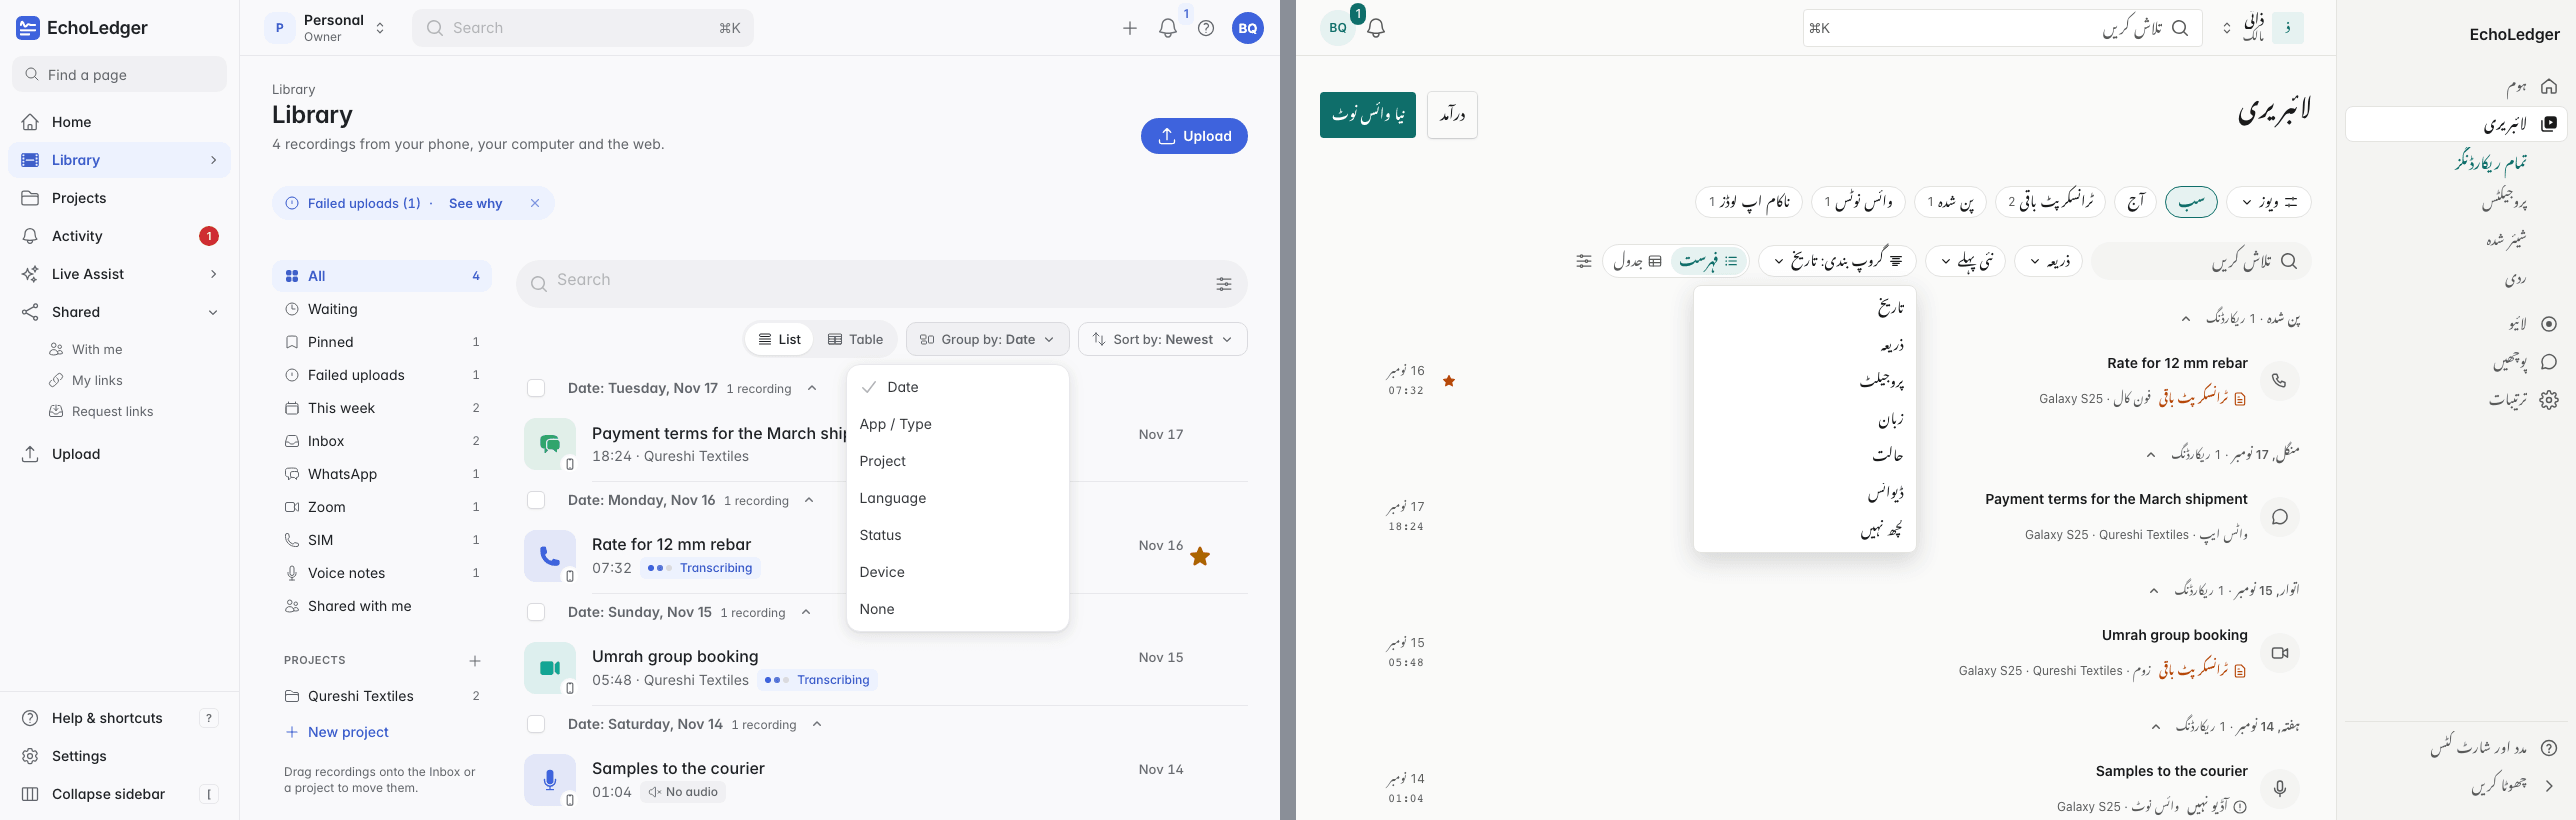
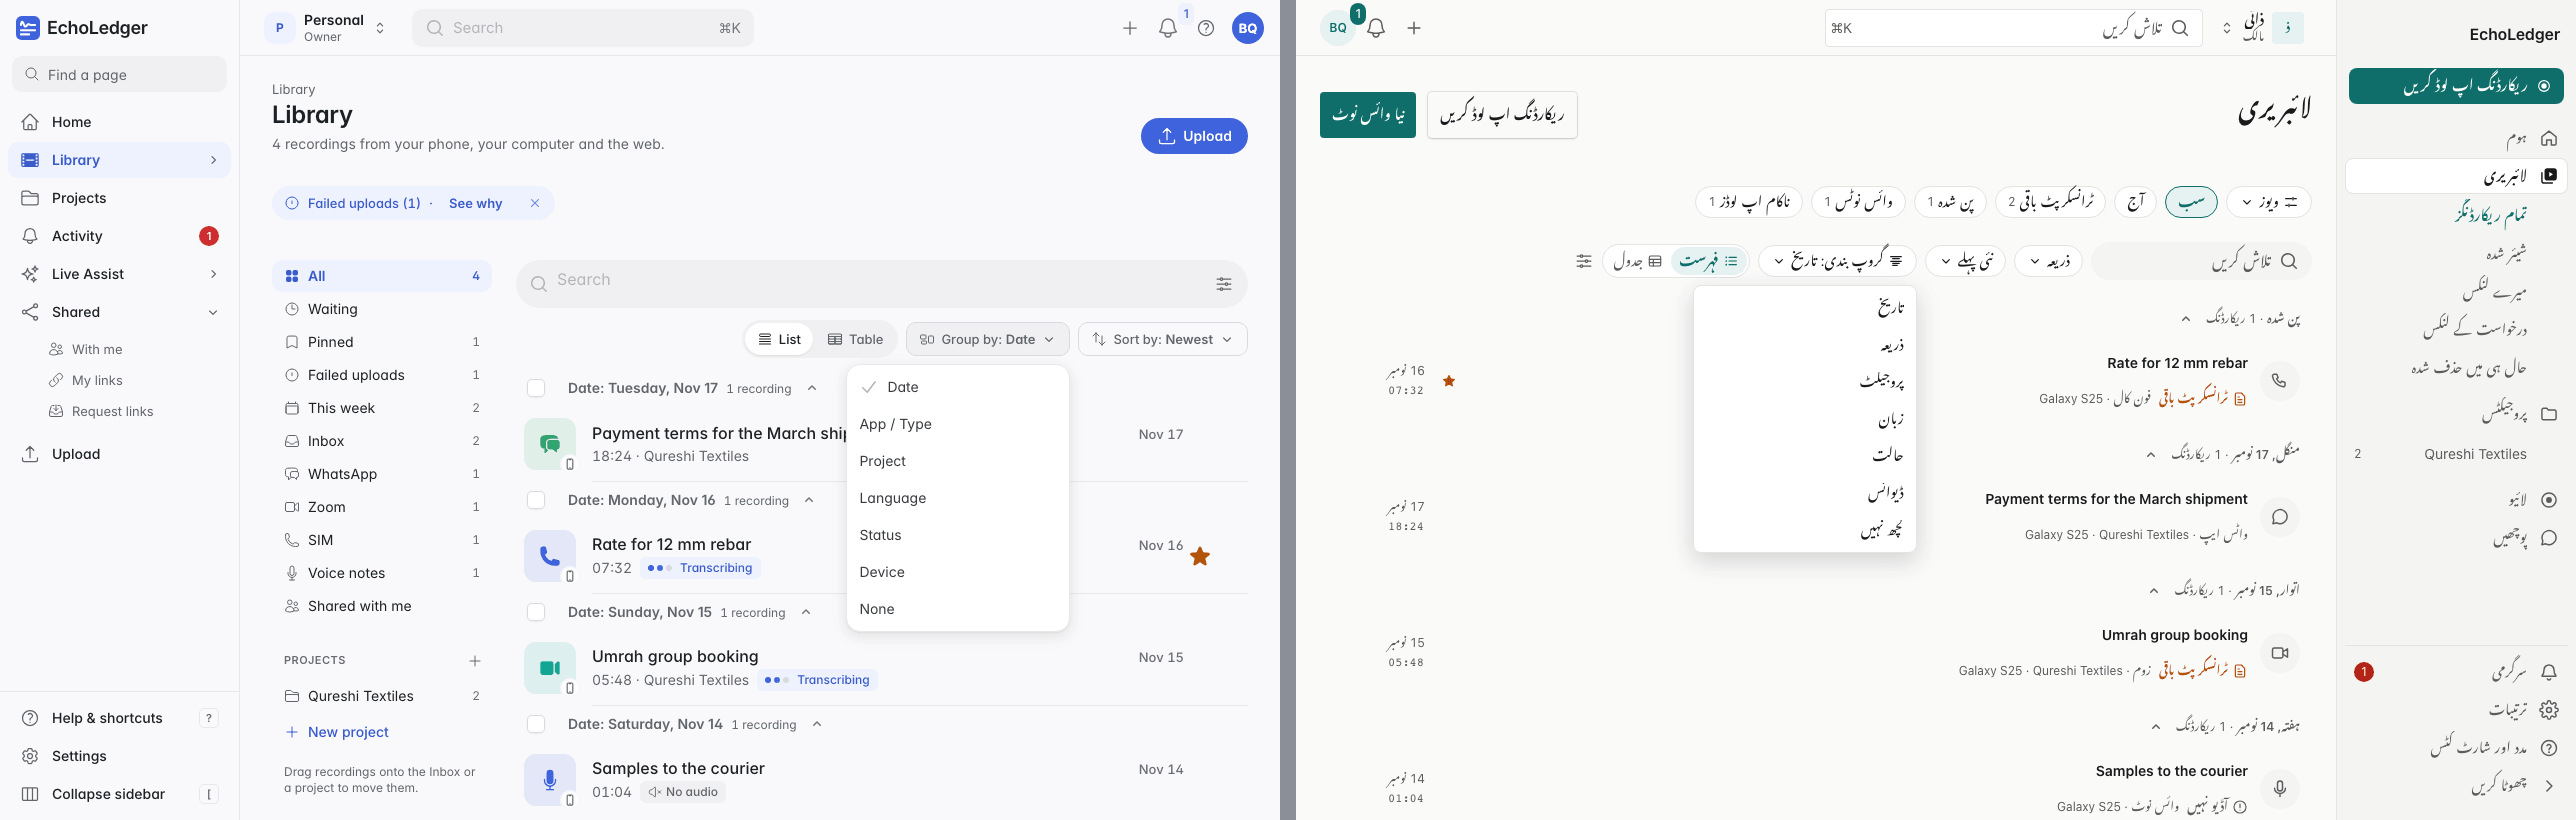
Library review: retaken pictures, 768 and 1000 px shots, Urdu table columns, layout check
- nav-phone-dark-ur and library-group-light-ur retaken: the Urdu row status stays on one line and the second line ends in an ellipsis; the group picture shows the new sidebar.
- Library screens at 768 and 1000 px, light and dark, English and Urdu, in docs/v2/design-review/U7.
- The Library table's App and Device columns read in the console's language under the new Library; classic is unchanged.
- An Undo that brings nothing back is checked to be a warning, and one that brings a recording back a success.
- Recently deleted and Upload recording used consistently in comments, test names and the WEB parity rows.
- layout-check.md: every console page at 720, 1024, 1280 and 1728 px (and 390 px for the Library row), with the issues found and who owns each.

diff --git a/web/tests/Feature/V2/LibrarySelectionTest.php b/web/tests/Feature/V2/LibrarySelectionTest.php
@@ -18,8 +18,8 @@ use Tests\Feature\Security\Support\SecurityFixtures as Fx;
 
 /*
  * The v2.0 Library's selection mode (docs/PLAN_V2_PARITY.md section 3): × to leave, the count, Select all, four main
- * actions (Move to project, Label, Export, Delete) and ⋮ with Organise, Export and Danger; Delete goes to Trash at once
- * with Undo. Classic keeps its own bar (ClassicGoldenTest).
+ * actions (Move to project, Label, Export, Delete) and ⋮ with Organise, Export and Danger; Delete goes to Recently deleted
+ * at once with Undo. Classic keeps its own bar (ClassicGoldenTest).
  */
 
 beforeEach(function () {
@@ -58,7 +58,7 @@ function selectionNotices(): string
     return (string) json_encode($notices->notifications->toArray(), JSON_UNESCAPED_UNICODE);
 }
 
-it('moves the selected recordings to Trash at once, offers Undo, and brings them back', function () {
+it('moves the selected recordings to Recently deleted at once, offers Undo, and brings them back', function () {
     $ids = $this->recordings->take(2)->pluck('id')->all();
 
     Livewire::test(ListCaptureSessions::class)->callTableBulkAction('trash', $ids)->assertHasNoTableBulkActionErrors();
@@ -86,7 +86,8 @@ it('brings back only that batch, only the person\'s own, and only what they may 
     $earlier->delete();
     Cache::put(CaptureSessionsTable::undoKey('batch'), [(string) $mine->id, (string) $other->id], now()->addMinutes(5));
 
-    Livewire::test(ListCaptureSessions::class)->dispatch('el-library-undo-delete', token: 'batch')->assertNotified('1 recording is back');
+    Livewire::test(ListCaptureSessions::class)->dispatch('el-library-undo-delete', token: 'batch');
+    expect(selectionNotices())->toContain('1 recording is back')->toContain('"status":"success"');
     expect(CaptureSession::query()->find($mine->id))->not->toBeNull()
         ->and(CaptureSession::query()->find($earlier->id))->toBeNull()
         ->and(CaptureSession::withoutGlobalScopes()->onlyTrashed()->find($other->id))->not->toBeNull();
@@ -97,7 +98,10 @@ it('brings back only that batch, only the person\'s own, and only what they may 
     // A person the policy does not let restore gets nothing back.
     Gate::before(fn ($user, string $ability) => $ability === 'restore' ? false : null);
     Cache::put(CaptureSessionsTable::undoKey('denied'), [(string) $earlier->id], now()->addMinutes(5));
-    Livewire::test(ListCaptureSessions::class)->dispatch('el-library-undo-delete', token: 'denied')->assertNotified('0 recordings are back');
+    Livewire::test(ListCaptureSessions::class)->dispatch('el-library-undo-delete', token: 'denied');
+    // Nothing came back: the notice is a warning, not a success.
+    $notices = selectionNotices();
+    expect($notices)->toContain('0 recordings are back')->toContain('"status":"warning"')->not->toContain('"status":"success"');
 });
 
 it('leaves a recording that is still recording or uploading where it is, and says so', function () {

diff --git a/web/tests/Feature/V2/LibraryParityTest.php b/web/tests/Feature/V2/LibraryParityTest.php
@@ -141,6 +141,34 @@ it('offers Retry and Delete on a failed recording\'s row in Failed uploads, and 
     expect(CaptureSession::query()->find($other->id))->toBeNull();
 });
 
+it('reads the group titles, the table\'s apps and the Failed uploads row\'s Retry and Delete in Urdu when the console is in Urdu', function () {
+    $prefs = $this->owner->console_preferences ?? [];
+    $prefs['shell'] = ['app_language' => 'ur'];
+    $this->owner->forceFill(['console_preferences' => $prefs])->save();
+    $this->actingAs($this->owner->fresh(), 'web');
+    app()->setLocale('ur');
+    $heads = function (string $html): array {
+        preg_match_all('~<[^>]*class="[^"]*fi-ta-group-heading[^"]*"[^>]*>(.*?)</~s', $html, $m);
+
+        return array_map(fn (string $t): string => trim(html_entity_decode(strip_tags($t))), $m[1]);
+    };
+
+    $page = Livewire::test(ListCaptureSessions::class);
+    expect(implode(' | ', $heads($page->call('setLibraryGroup', 'app')->html())))->toContain('واٹس ایپ')->toContain('فون کال')->not->toContain('WhatsApp');
+    expect(implode(' | ', $heads($page->call('setLibraryGroup', 'project')->html())))->toContain('ان باکس')->not->toContain('Inbox');
+    expect(implode(' | ', $heads($page->call('setLibraryGroup', 'status')->html())))->toContain('ناکام')->not->toContain('Failed');
+
+    // The table's App column too.
+    $page->call('setLibraryGroup', 'none')->call('setLibraryLayout', 'table')
+        ->assertTableColumnFormattedStateSet('source_app', 'واٹس ایپ', $this->call)
+        ->assertTableColumnFormattedStateSet('source_app', 'فون کال', $this->pinned)
+        ->assertTableColumnFormattedStateNotSet('source_app', 'Phone call', $this->pinned);
+
+    $failed = Livewire::test(ListCaptureSessions::class)->call('openPlace', 'failed');
+    $failed->assertTableActionHasLabel('retryFailed', 'دوبارہ کوشش کریں', $this->failed)
+        ->assertTableActionHasLabel('deleteFailed', 'حذف کریں', $this->failed);
+});
+
 it('says how many calls wait for a decision, with Review, in one quiet line', function () {
     $page = Livewire::test(ListCaptureSessions::class);
     expect($page->html())->toContain('1 call waiting for a decision')->toContain('data-waiting="1"');

diff --git a/web/app/Filament/Resources/CaptureSessions/Tables/CaptureSessionsTable.php b/web/app/Filament/Resources/CaptureSessions/Tables/CaptureSessionsTable.php
@@ -213,9 +213,11 @@ final class CaptureSessionsTable
                 ->state(fn (CaptureSession $r): string => $r->displayTitle())
                 ->extraAttributes(fn (CaptureSession $r): array => ['data-recording' => $r->id, 'draggable' => ConsoleAccess::readOnly() ? 'false' : 'true', 'class' => 'el-table-title'])
                 ->searchable(query: fn (Builder $query, string $search): Builder => self::searchTitleOrClient($query, $search)),
-            TextColumn::make('source_app')->label(__('App'))->toggleable(),
+            // The app's and the device's names in the console's language under the new Library (English as before).
+            TextColumn::make('source_app')->label(__('App'))->toggleable()
+                ->formatStateUsing(fn (?SourceApp $state): string => ConsoleV2::library() ? __((string) $state?->getLabel()) : (string) $state?->getLabel()),
             TextColumn::make('client.name')->label(__('Project'))->placeholder(__('Inbox'))->toggleable(),
-            TextColumn::make('device.name')->label(__('Device'))->state(fn (CaptureSession $r): string => self::deviceLabel($r))->toggleable(isToggledHiddenByDefault: true),
+            TextColumn::make('device.name')->label(__('Device'))->state(fn (CaptureSession $r): string => ConsoleV2::library() ? __(self::deviceLabel($r)) : self::deviceLabel($r))->toggleable(isToggledHiddenByDefault: true),
             TextColumn::make('duration_ms')->label(__('Length'))->formatStateUsing(fn (?int $state): string => self::duration($state))->toggleable(),
             TextColumn::make('started_at')->label(__('Date'))->toggleable()
                 // Since v2.0 in the console's language (English reads exactly as before).

diff --git a/web/resources/views/filament/v2/sidebar.blade.php b/web/resources/views/filament/v2/sidebar.blade.php
@@ -1,6 +1,6 @@
 {{--
     The v2.0 sidebar (docs/PLAN_V2_PARITY.md section 2, docs/v2/IA.md): the brand, "Upload recording" at the top (the
-    web's Record), then Home, Library (All recordings, Shared, My links, Request links, Trash), Projects (the first few
+    web's Record), then Home, Library (All recordings, Shared, My links, Request links, Recently deleted), Projects (the first few
     with their counts), Live and Ask; at the foot Activity with what needs you, Settings, Help and Collapse. Its edge
     resizes it (drag, or the arrow keys), and its look is the person's Sidebar style (Light, Dark, Soft grey). It keeps
     Filament's sidebar contract (filamentSidebar, $store.sidebar), so on phones it is the drawer the menu button opens;

diff --git a/web/resources/views/filament/v2/topbar.blade.php b/web/resources/views/filament/v2/topbar.blade.php
@@ -1,6 +1,6 @@
 {{--
     The v2.0 top bar, beside the sidebar: the menu button on phones and tablets, the workspace, search and commands
-    (Ctrl/⌘+K), then + (Upload files, New project, Request link), the bell (only what needs you) and the avatar menu (Settings lives there on phones, as in the apps).
+    (Ctrl/⌘+K), then + (Upload recording, New project, Request link), the bell (only what needs you) and the avatar menu (Settings lives there on phones, as in the apps).
 --}}
 @php
     use Filament\Livewire\GlobalSearch;

diff --git a/web/app/Filament/Resources/CaptureSessions/Pages/ListCaptureSessions.php b/web/app/Filament/Resources/CaptureSessions/Pages/ListCaptureSessions.php
@@ -402,7 +402,7 @@ class ListCaptureSessions extends ListRecords
 
     /**
      * Undo of the v2.0 selection's Delete: the batch that Delete just moved (its token, this person's only) comes back
-     * from Trash while Trash still keeps it, each recording only when the person may restore it.
+     * from Recently deleted while it still keeps it, each recording only when the person may restore it.
      */
     public function undoDelete(string $token = ''): void
     {

diff --git a/docs/v2/design-review/U7/layout-check.md b/docs/v2/design-review/U7/layout-check.md
@@ -1,0 +1,53 @@
+# U7 layout check: console pages at 720, 1024, 1280 and 1728 px
+
+What was checked: every console page of the parity world (`web/tests/Feature/V2/Support/parity_world.php`, 38 pages:
+Home, Library, a recording, Projects and each project tab, Search, Upload, Activity, Live, Shares, Shared with me,
+Request links, Recently deleted, Devices, Usage, Workspace, Help, Get the apps, Live Assist preps, sessions and settings,
+Settings and each settings page) at 720, 1024, 1280 and 1728 px, plus 390 px for the known phone issue:
+
+- classic: light and dark, English (classic has no Urdu);
+- v2: light and dark, English and Urdu.
+
+1,140 page loads in all, on a local server with the parity world in a scratch SQLite file. Each page was checked for
+sideways page scroll, boxes that scroll sideways, text cut by its box without an ellipsis, text cut off the screen and
+text drawn over text. The pages it flagged were then looked at by eye, as were Home, a recording, Search, Upload, Live,
+Settings, Appearance, Projects, a project, Activity and Usage in Urdu at 720 and 1280 px.
+
+The page never scrolls sideways, at any width, in either design. Nothing at 1728 px. Light and dark give the same
+results everywhere. The screenshots are in `layout/`. Red outlines mark what was flagged.
+
+## v2 issues
+
+| # | Page | Width | What is wrong | Screenshot | Owner |
+|---|------|-------|---------------|------------|-------|
+| 1 | Library (List) | 390 (phone), EN and UR | The row's time and length are pushed off the right edge, and the list scrolls sideways (it shows 358 px and needs 463). The grid that holds the records (`.fi-ta-content`) sizes its one column to the row's widest content: the title and the second line do not wrap, so they set that width. The row's own rules (`min-width: 0`, the meta's ellipsis) do not help, because the grid track is already too wide. A rule that fixes it, checked in the browser: `.v2-library .fi-ta-content { grid-template-columns: minmax(0, 1fr); }`. With it the time and length show and the title and meta end in "…". | `layout/v2-library-390-light-en.png`, `layout/v2-library-390-dark-ur.png`, with the rule: `layout/v2-library-390-light-en-with-proposed-rule.png` | EL-Design (`web/resources/css/v2/console.css`, outside this task's lock) |
+| 2 | Settings › Appearance | 390 | The Language hint ("The console's words and direction. Transcripts keep their own…") is cut at the right edge with no ellipsis. The settings box is 358 px and the line needs 409. | `layout/v2-settings-appearance-390-light-en.png` | EL-Design (settings box styles) |
+| 3 | Recording | 390 | The tabs (Transcript, Summary, Ask, Moments, Details) need 7 px more than they get, so "Details" is cut at the edge. They scroll, but nothing shows that more is there. The meta line also wraps with its "·" left at the end of the first line. | `layout/v2-recording-390-light-en.png` | EL-Design (tabs) |
+| 4 | Recording › Share links table | 720, 1024, 1280, EN and UR | The table needs 1,121 px. At 1280 it shows 990, so the row's Access action is cut at the right edge. Its dates are also in classic's English format ("Nov 17, 2026 · 11:42 AM") under the v2 frame. | `layout/v2-recording-share-links-1280-light-en.png` | EL-Fix (shared relation manager table) |
+| 5 | My links (Shares) | 720, 1024, 1280, EN and UR | The table needs 1,194 px, so it scrolls sideways even at 1280. | `layout/v2-shares-1280-dark-en.png` | EL-Fix (shared page table) |
+| 6 | Devices | 720, 1024, 1280, EN and UR | The table needs 1,038 px, so at 1280 the row actions (Rename and the rest) are cut at the right edge. | `layout/v2-devices-1280-light-en.png` | EL-Fix (shared page table) |
+| 7 | Request links | 720, 1024, EN and UR | The table needs 931 px and scrolls sideways at 1024. | `layout/v2-request-links-1024-light-ur.png` | EL-Fix (shared page table) |
+| 8 | Project › Recordings (and every project tab) | 390, UR | The project pages are still classic's, in English, under the Urdu frame. Their row titles are not isolated, so in right-to-left an English title is cut at its start ("…ms for the March shipment") instead of its end. The Sort select's arrow sits over "Newest first". The tab bar scrolls sideways at 390 (it needs 528 px). | `layout/v2-project-recordings-390-light-ur.png` | EL-Fix (project pages: `<bdi>` / `dir="auto"` on titles, Urdu words) |
+| 9 | Usage | 720, UR | The page is in English under the Urdu frame. Its mixed-direction lines come out in the wrong order: "B 68.0" for 68.0 B, "min · no limit 0.0", and the full stop at the wrong end of the note ("…until the limit is raised or the month ends" with "." first). | `layout/v2-usage-720-light-ur.png` | EL-Fix (Usage page: Urdu words, `dir="auto"` / `<bdi>` on values) |
+| 10 | Home | 720, UR | The "This month" card wraps "0.0 min · $0.00" so the "·" is left alone at the end of the first line. | `layout/v2-home-720-light-ur.png` | EL-Fix (Home stats widget) |
+| 11 | Workspace › Invitations | 390, EN and UR | The members and invitations tables scroll sideways at 390 (they need 630 and 445 px). | `layout/v2-workspace-390-light-en.png` | EL-Fix (shared page tables) |
+
+Seen and left alone as intended: the Library's view chips (Views, All, Today…) run past the edge at 390 and 720 px and
+scroll sideways, as a phone chip row does. The empty Live Assist preps and sessions tables need 10 to 70 px more than
+they get at 390 px.
+
+Changed in this task (v2 Library, in scope): the Library table's App and Device columns were English under Urdu. They now
+read in the console's language, as the group titles, Retry and Delete do (test: `LibraryParityTest`, "reads the group
+titles, the table's apps and the Failed uploads row's Retry and Delete in Urdu…").
+
+## Classic issues (not fixed here)
+
+| # | Page | Width | What is wrong | Screenshot | Owner |
+|---|------|-------|---------------|------------|-------|
+| C1 | Library | 1024 (and 768) | The toolbar needs 749 px and gets 720. List / Table stacks into two lines, and "Sort by: Newest" is cut at the right edge. | `layout/classic-library-1024-light-en.png`, also `library-rows-768-light-en.png` (left half) | EL-Fix |
+| C2 | Recording › Share links | 720, 1024, 1280 | The table needs 1,128 px and scrolls sideways at 1280. The Access action is cut. | `layout/classic-recording-share-links-1280-light-en.png` | EL-Fix |
+| C3 | My links (Shares) | 720, 1024, 1280 | The table needs 1,213 px and scrolls sideways at 1280. | `layout/classic-shares-1280-dark-en.png` | EL-Fix |
+| C4 | Devices | 720, 1024, 1280 | The table needs 1,046 px and scrolls sideways at 1280. | as v2 #6 | EL-Fix |
+| C5 | Request links | 720, 1024 | The table needs 951 px and scrolls sideways at 1024. | as v2 #7 | EL-Fix |
+
+Server: nothing found that needs EL-Backend.
